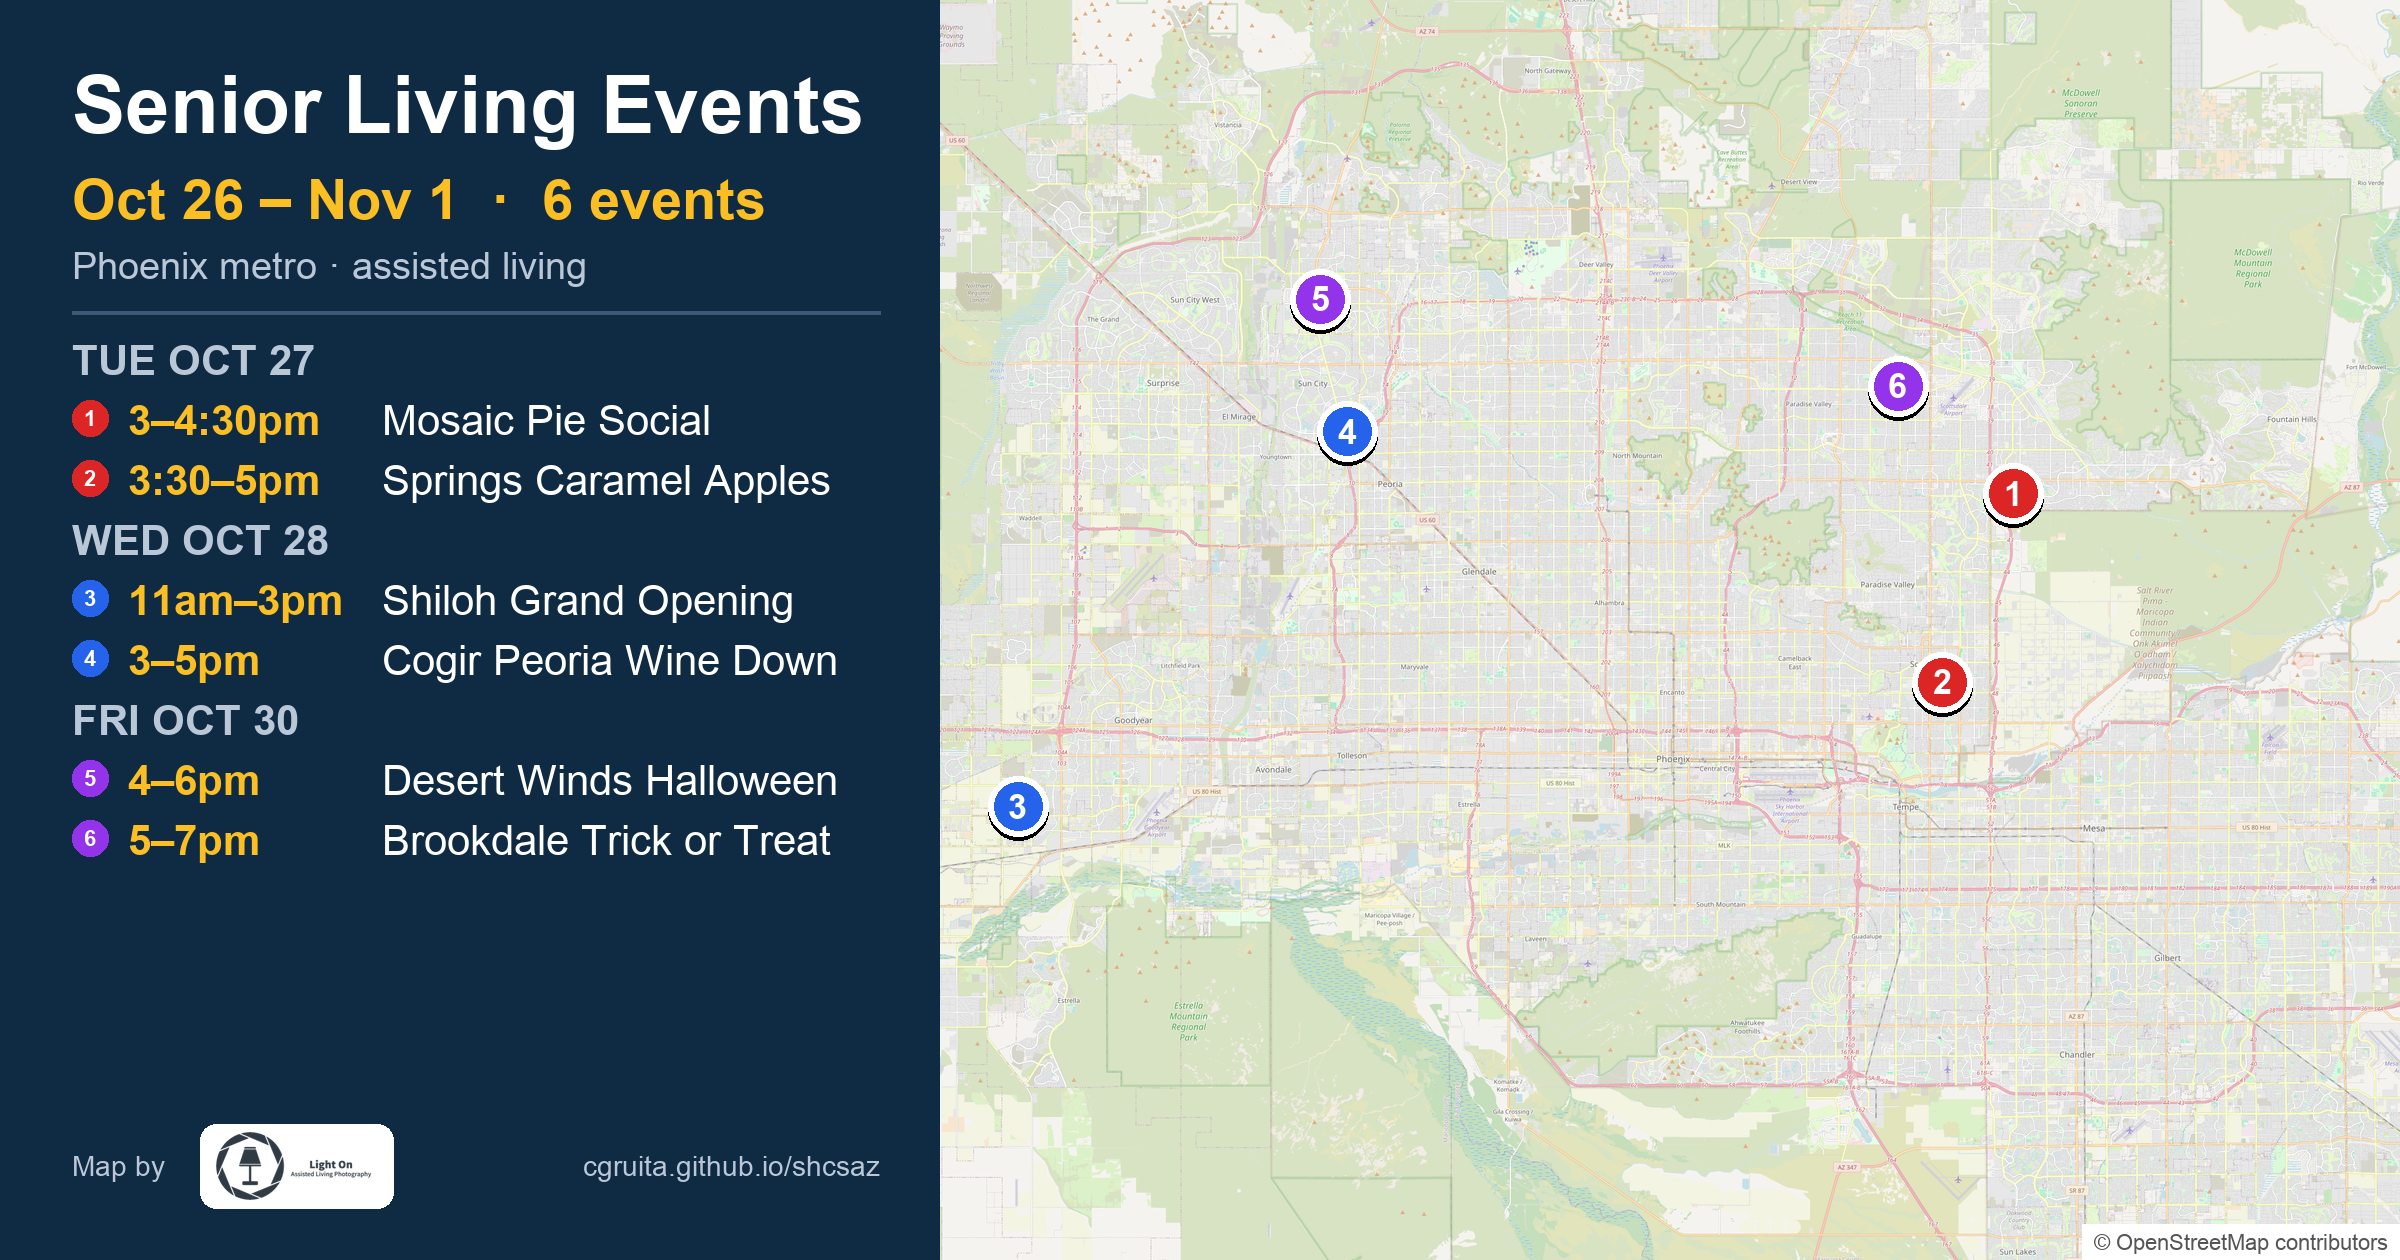
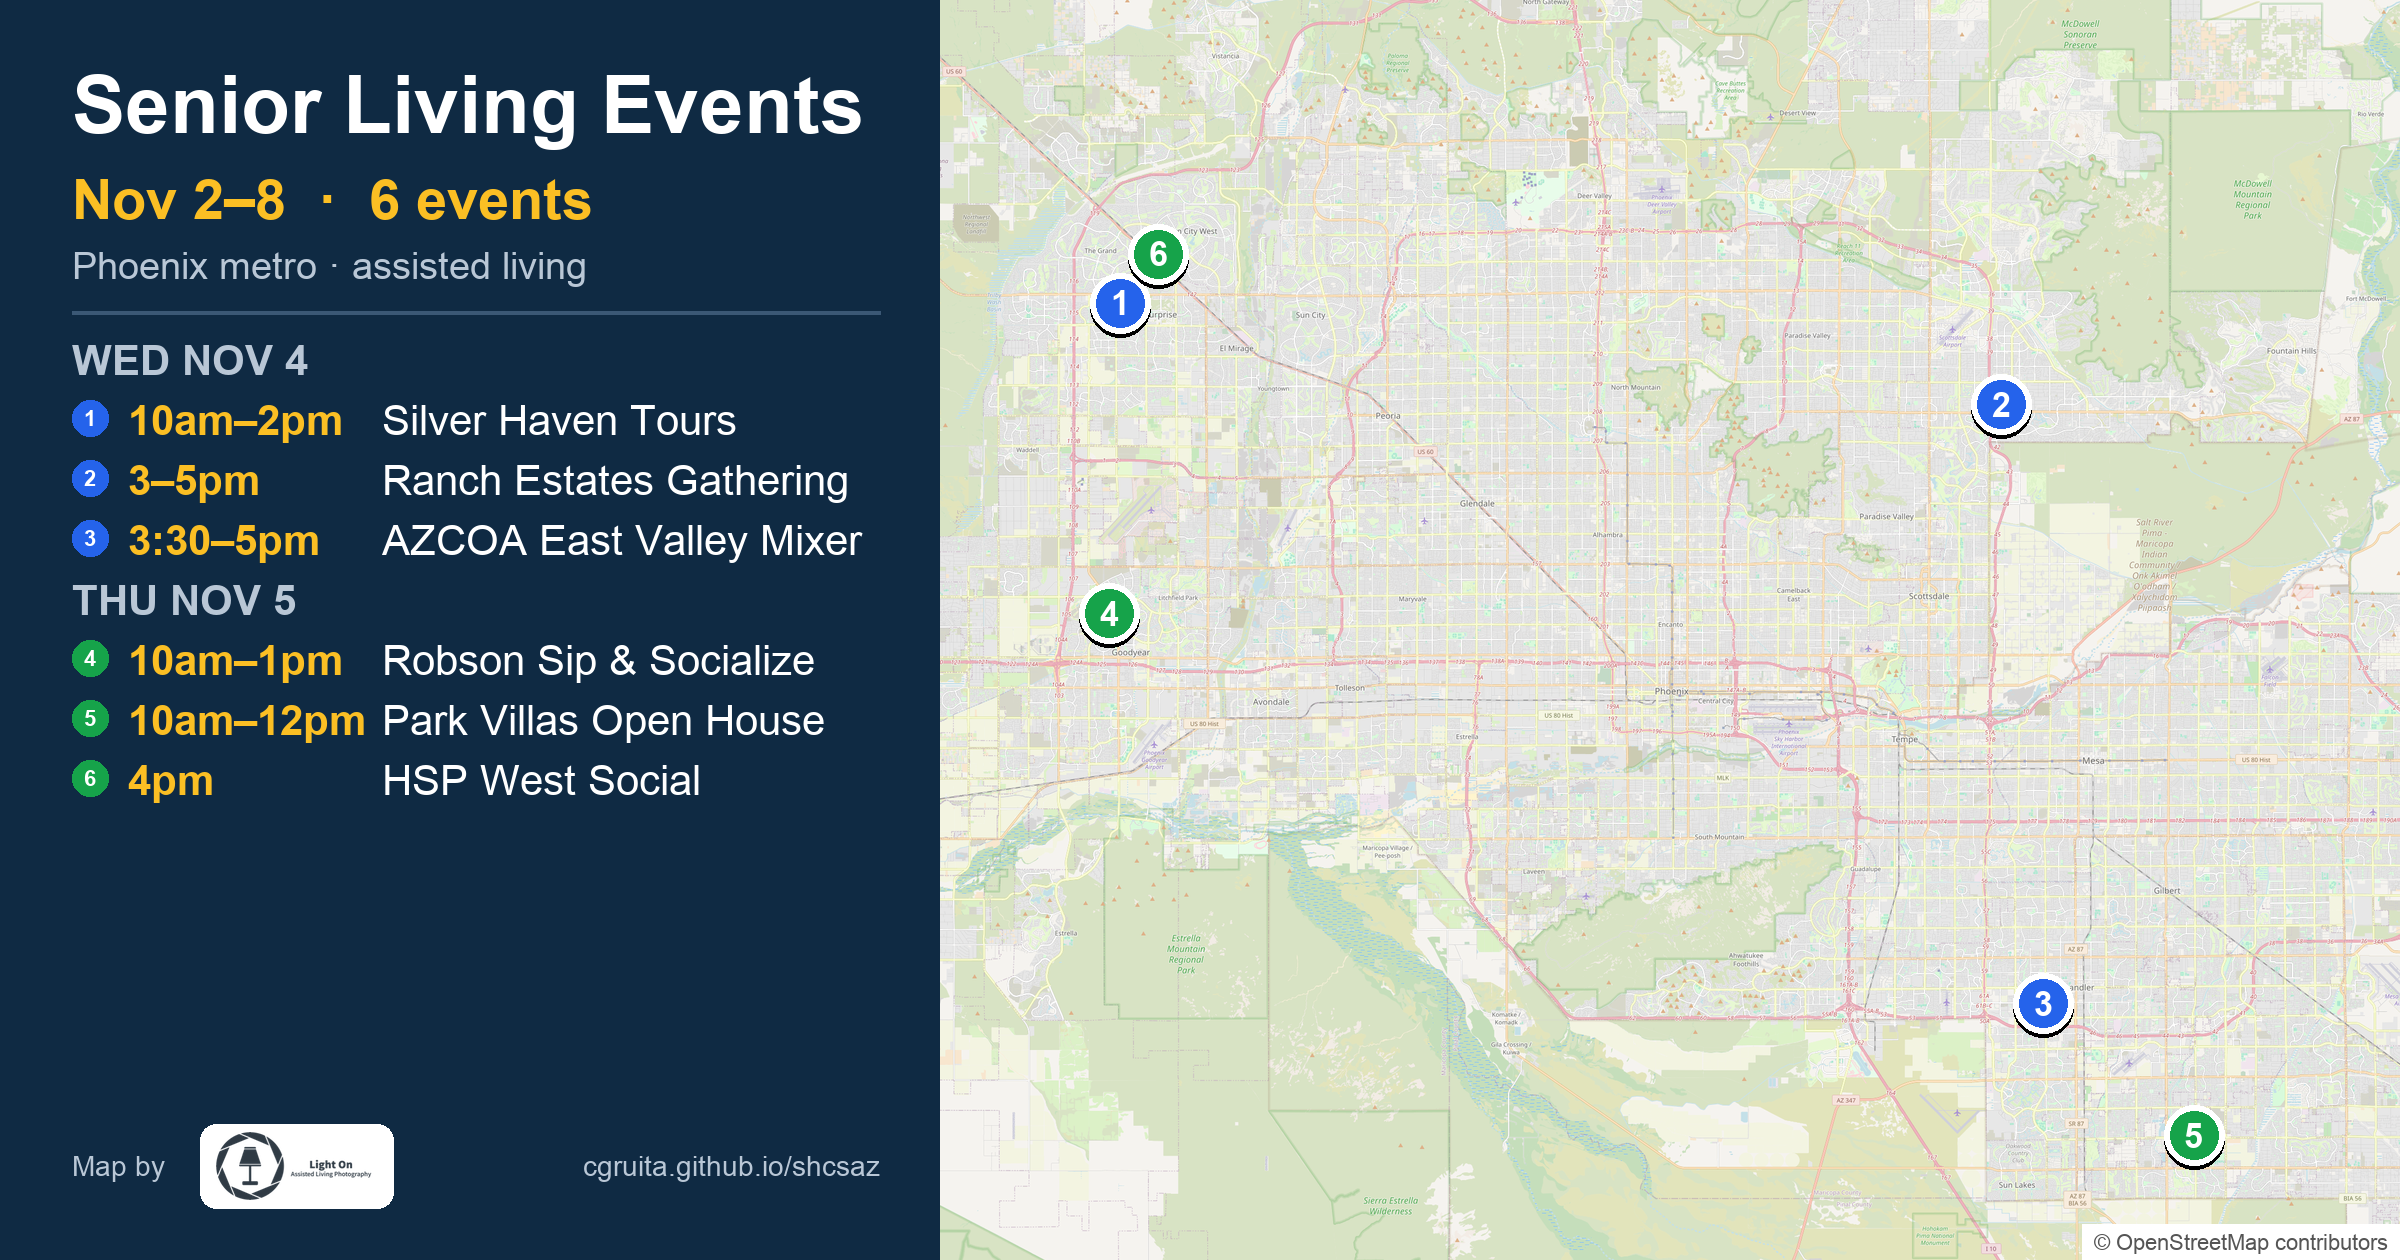
Week of Nov 2, 2026-11-01-1

diff --git a/index.html b/index.html
@@ -4,23 +4,23 @@
   <meta charset="UTF-8" />
   <title>Phoenix Metro Weekly Assisted Living Events</title>
   <!-- og:start (generated by scripts/build_preview.py) -->
-  <meta name="description" content="Oct 26 – Nov 1 · 6 assisted living events across the Valley" />
+  <meta name="description" content="Nov 2–8 · 6 assisted living events across the Valley" />
   <meta property="og:type" content="website" />
-  <meta property="og:title" content="Senior Living Events · Oct 26 – Nov 1" />
-  <meta property="og:description" content="Oct 26 – Nov 1 · 6 assisted living events across the Valley" />
+  <meta property="og:title" content="Senior Living Events · Nov 2–8" />
+  <meta property="og:description" content="Nov 2–8 · 6 assisted living events across the Valley" />
   <meta property="og:url" content="https://cgruita.github.io/shcsaz/" />
-  <meta property="og:image" content="https://cgruita.github.io/shcsaz/images/preview.png?v=2026-10-26-3" />
+  <meta property="og:image" content="https://cgruita.github.io/shcsaz/images/preview.png?v=2026-11-01-1" />
   <meta property="og:image:width" content="1200" />
   <meta property="og:image:height" content="630" />
   <meta name="twitter:card" content="summary_large_image" />
-  <meta name="twitter:title" content="Senior Living Events · Oct 26 – Nov 1" />
-  <meta name="twitter:description" content="Oct 26 – Nov 1 · 6 assisted living events across the Valley" />
-  <meta name="twitter:image" content="https://cgruita.github.io/shcsaz/images/preview.png?v=2026-10-26-3" />
+  <meta name="twitter:title" content="Senior Living Events · Nov 2–8" />
+  <meta name="twitter:description" content="Nov 2–8 · 6 assisted living events across the Valley" />
+  <meta name="twitter:image" content="https://cgruita.github.io/shcsaz/images/preview.png?v=2026-11-01-1" />
   <!-- og:end -->
   <meta name="viewport" content="width=device-width, initial-scale=1" />
   <link href="https://api.mapbox.com/mapbox-gl-js/v3.6.0/mapbox-gl.css" rel="stylesheet" />
   <link href="vendor/leaflet/leaflet.css" rel="stylesheet" />
-  <link href="css/styles.css?v=2026-10-26-3" rel="stylesheet" />
+  <link href="css/styles.css?v=2026-11-01-1" rel="stylesheet" />
 </head>
 <body>
   <header>
@@ -89,7 +89,7 @@
     })();
   </script>
   <script src="https://api.mapbox.com/mapbox-gl-js/v3.6.0/mapbox-gl.js"></script>
-  <script src="js/config.js?v=2026-10-26-3"></script>
-  <script src="js/map.js?v=2026-10-26-3"></script>
+  <script src="js/config.js?v=2026-11-01-1"></script>
+  <script src="js/map.js?v=2026-11-01-1"></script>
 </body>
 </html>

diff --git a/js/config.js b/js/config.js
@@ -1,2 +1,2 @@
 const MAPBOX_TOKEN = "pk.eyJ1IjoiY2dydWl0YSIsImEiOiJjbXRhanNoYzkwMGRrMndvYnQ5OWFvcHZoIn0.IXzPp--fY9nrZjRw5MfD2A";
-const MAP_VERSION = "2026-10-26-3";
+const MAP_VERSION = "2026-11-01-1";
